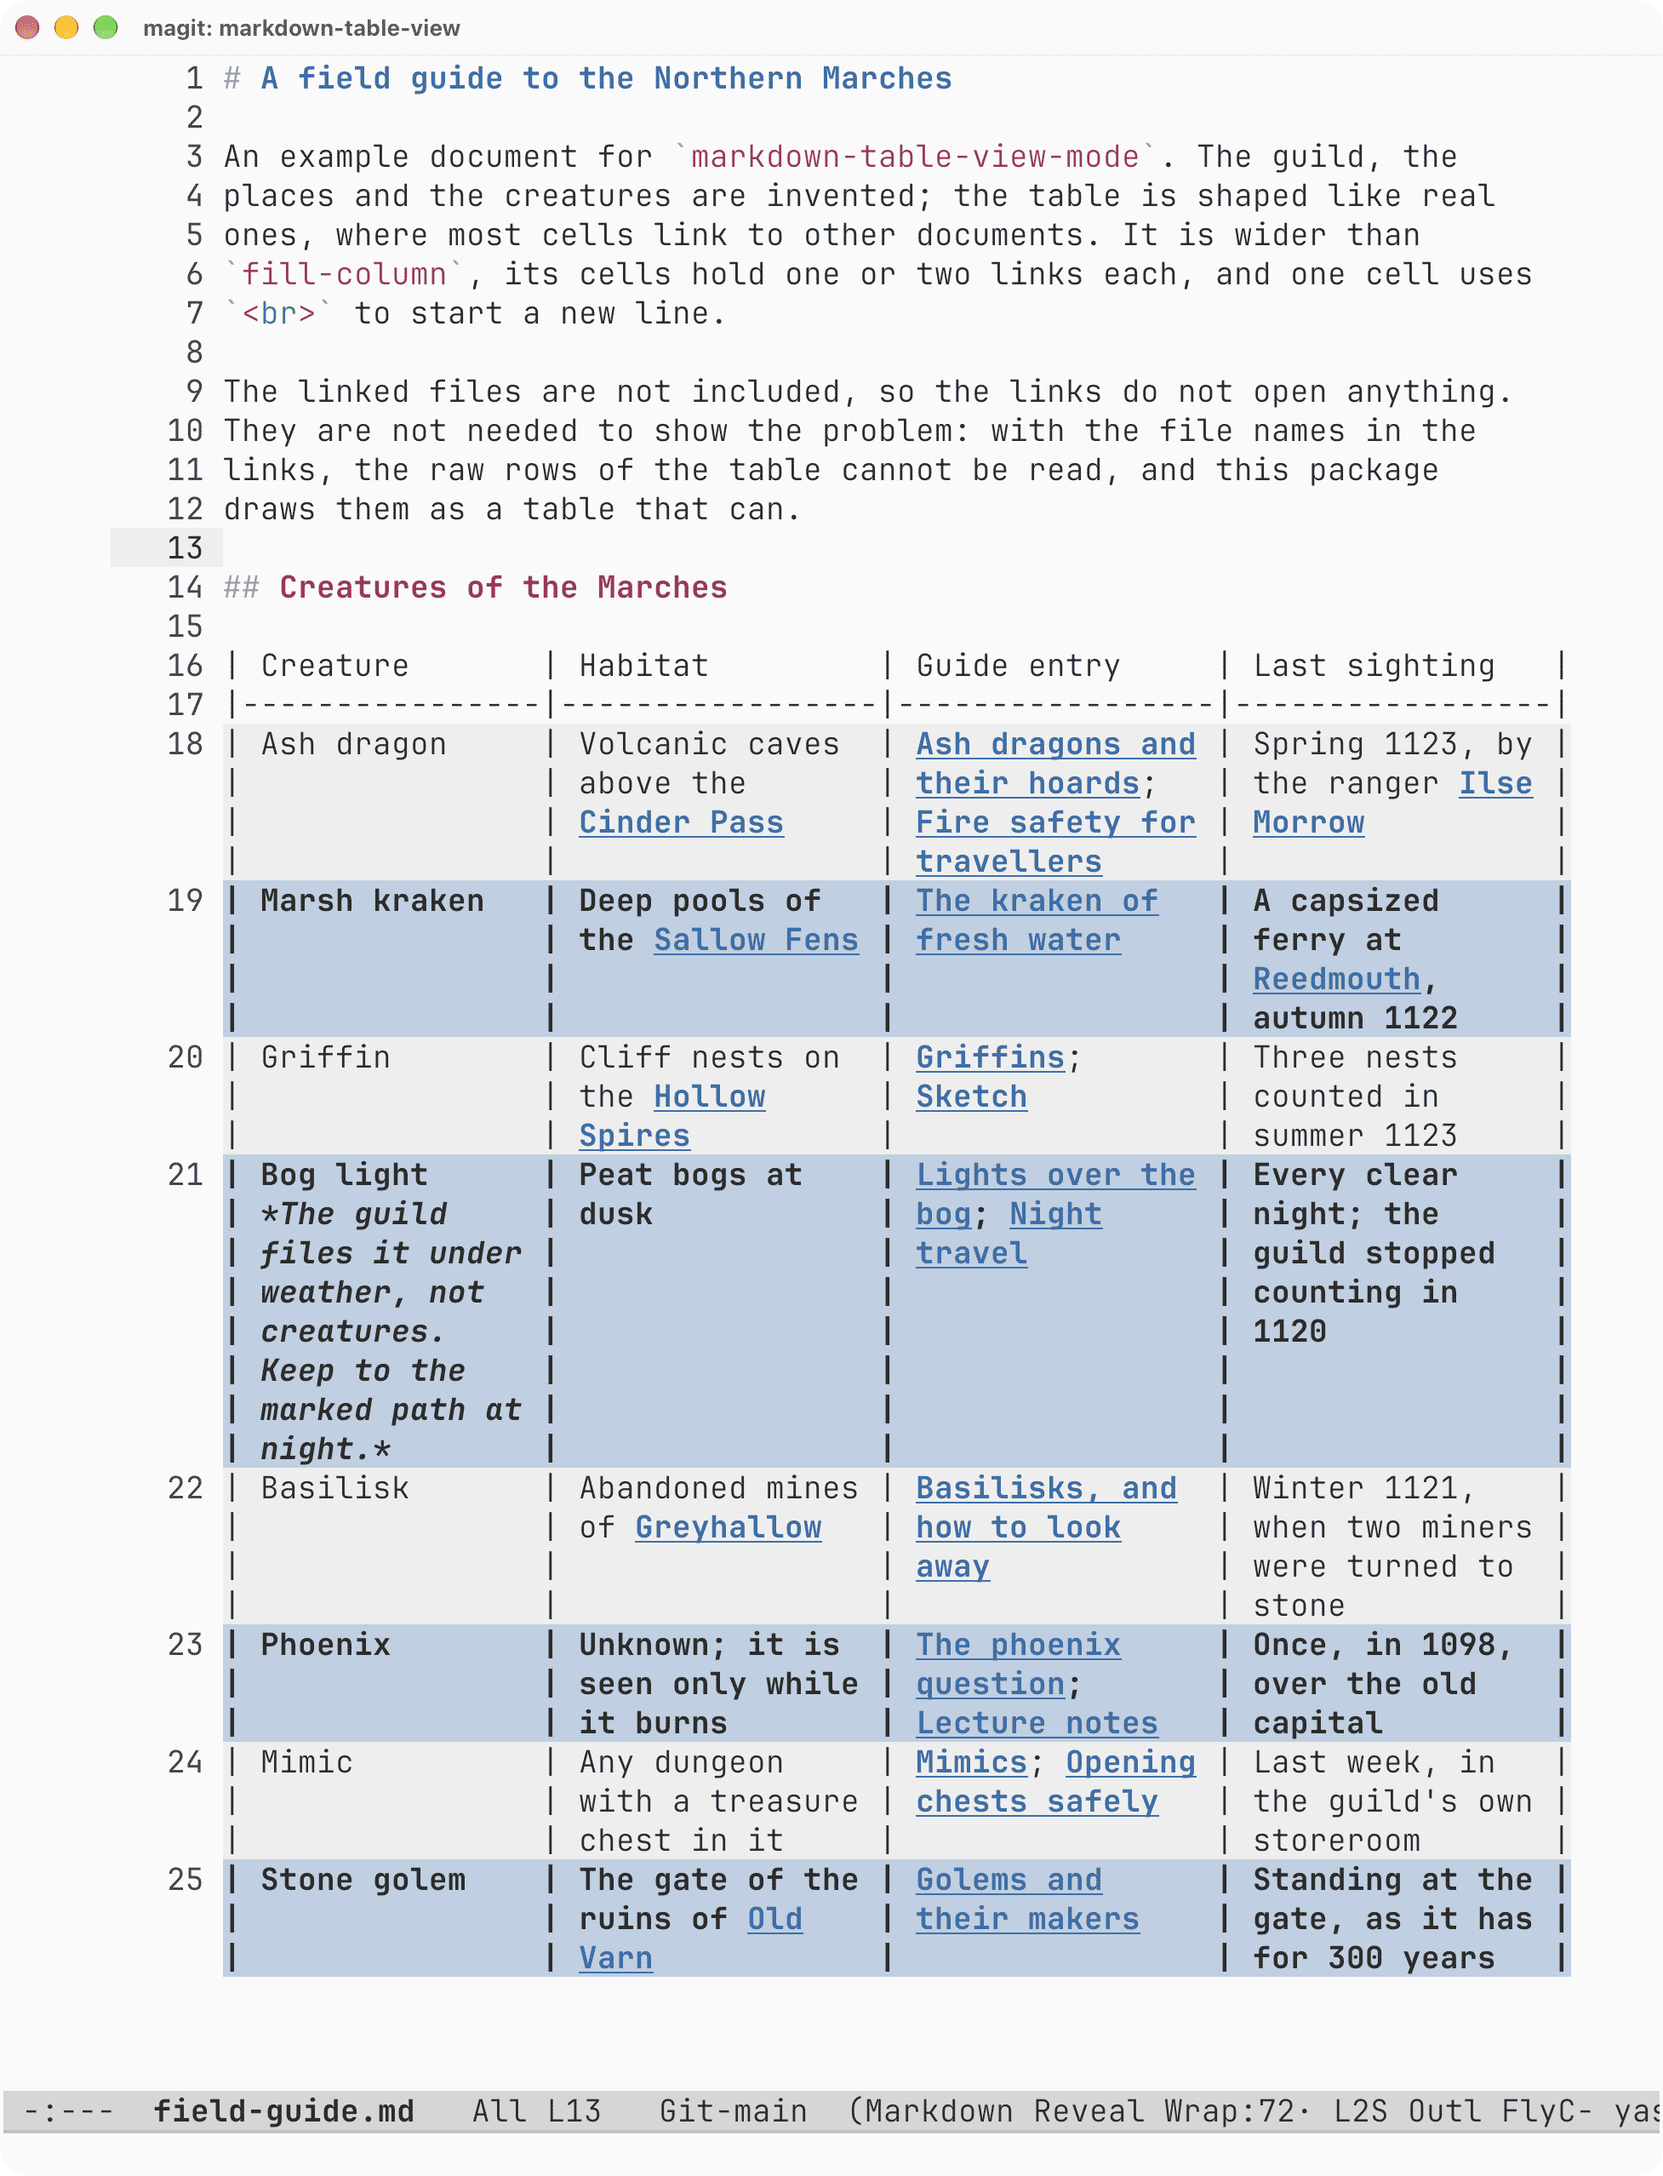
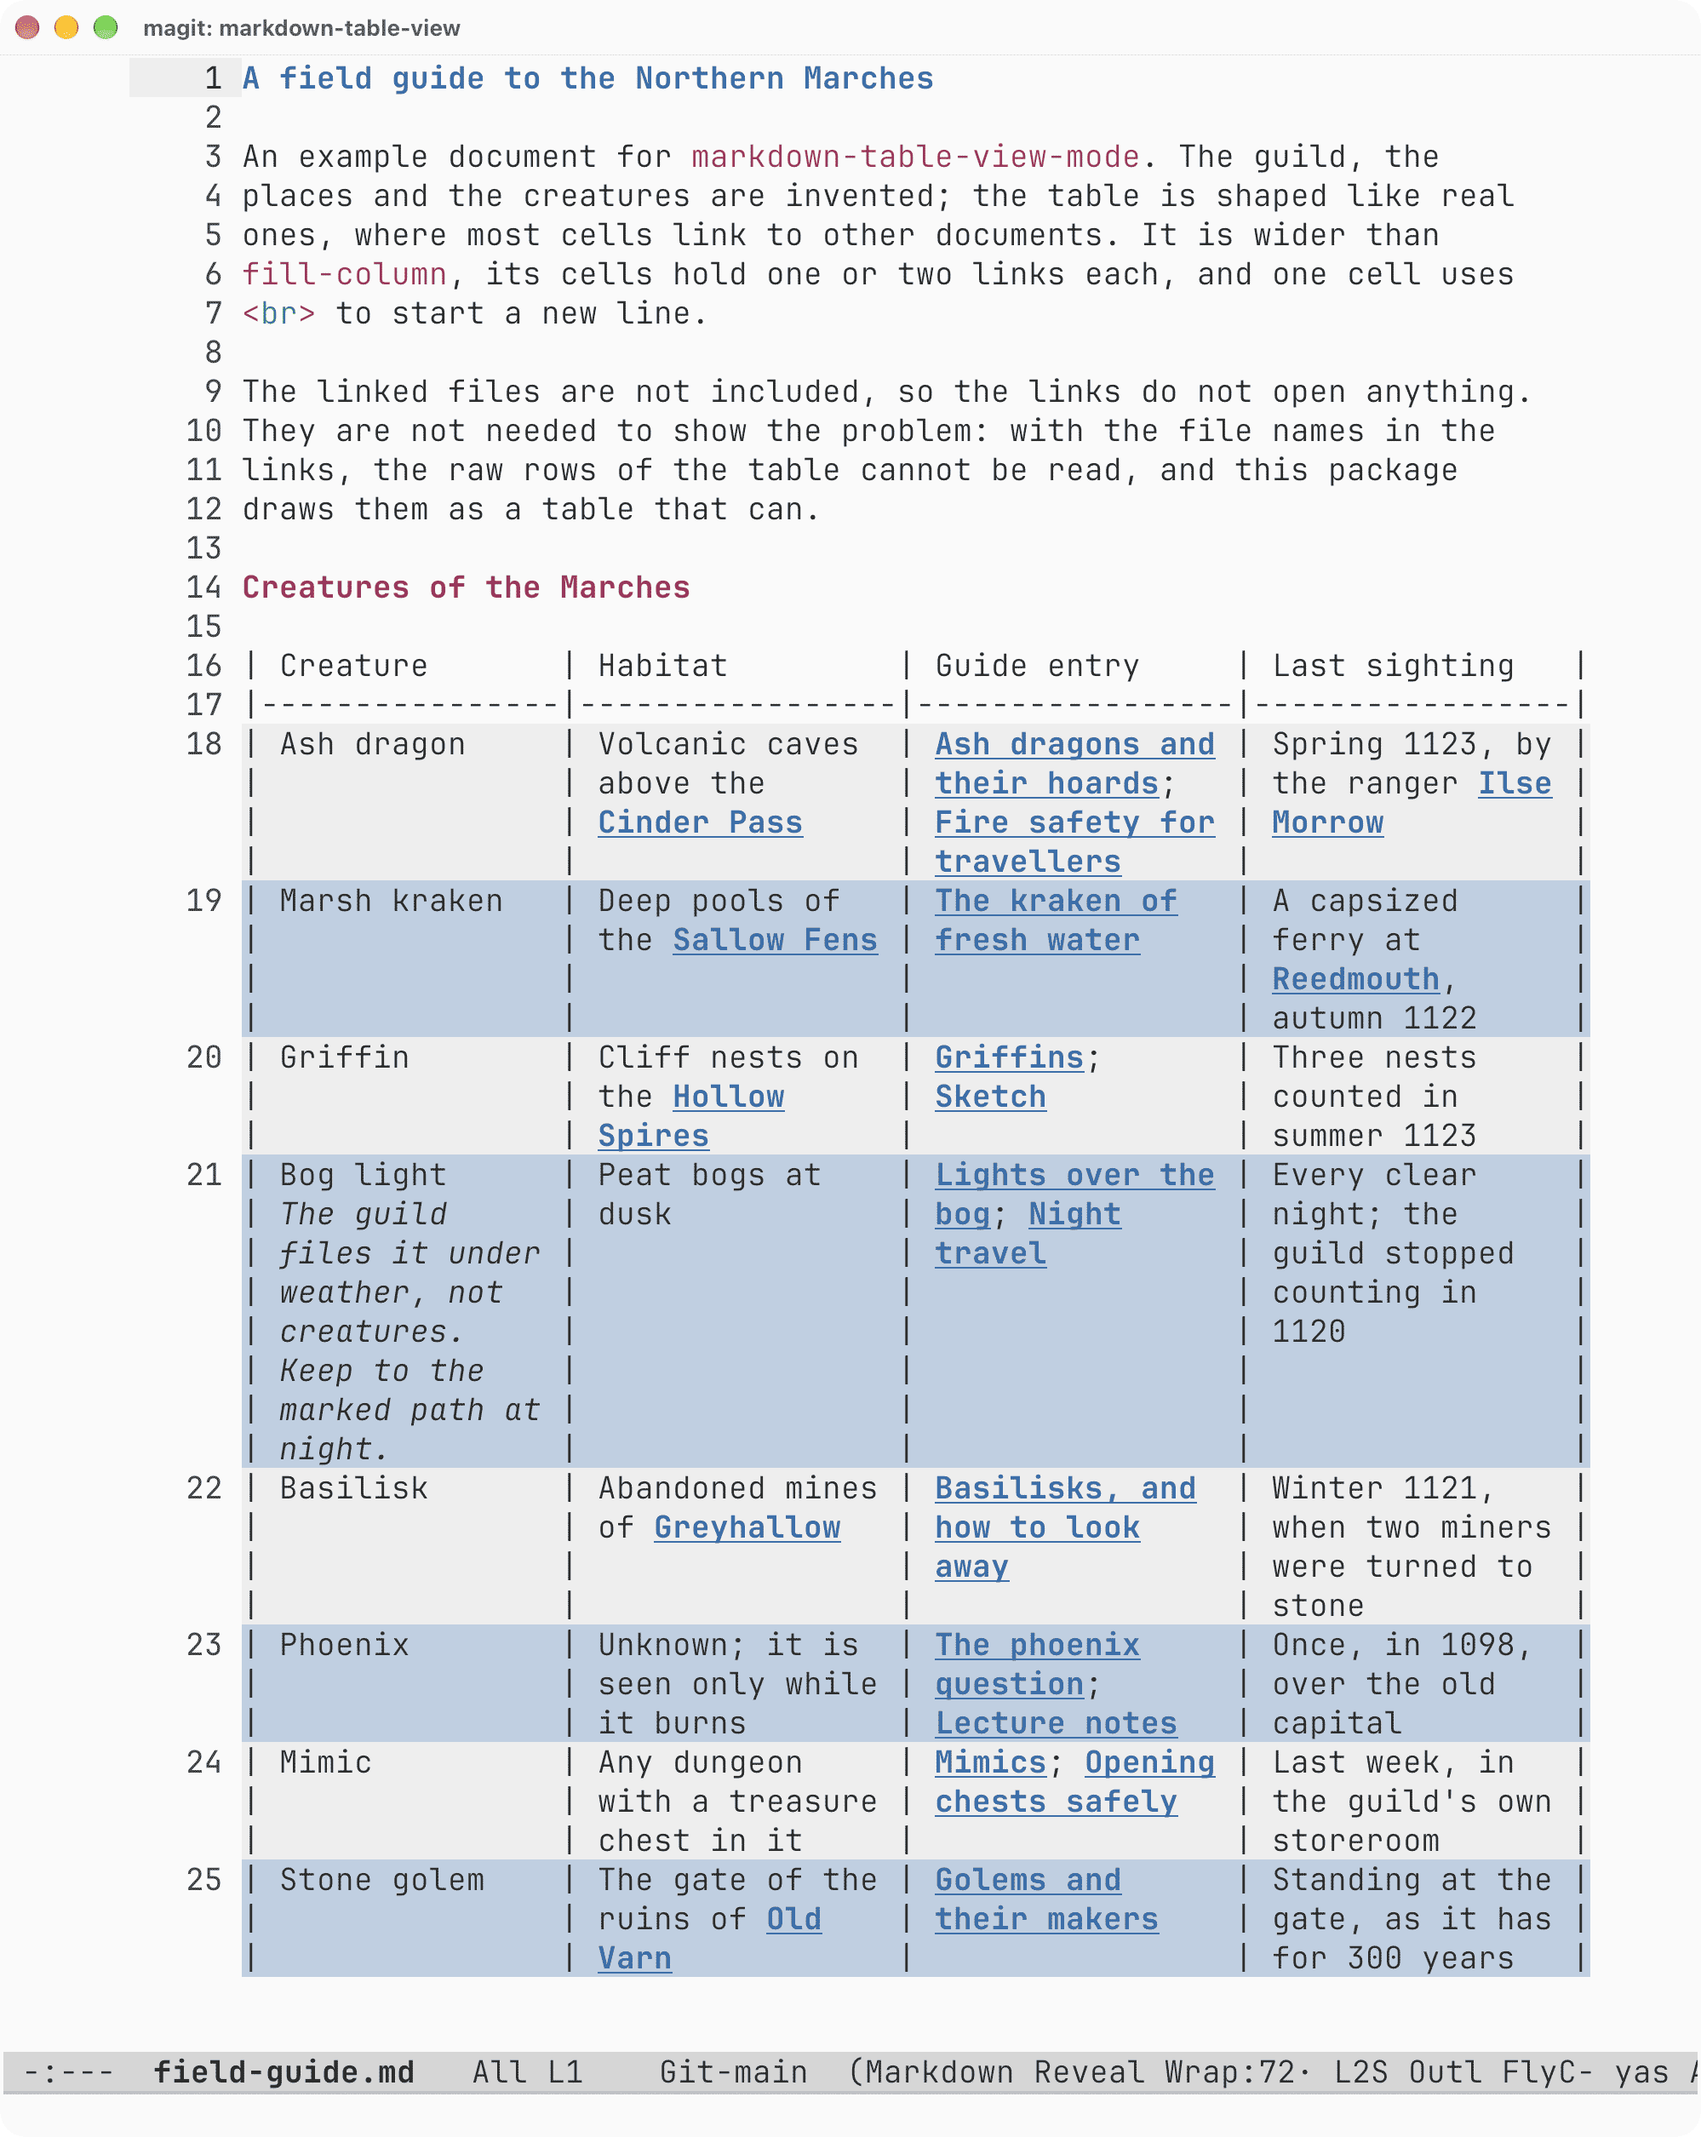
Retake the screenshot with markup hidden
The striped rows are no longer bold, and all markup is hidden with
C-c C-x C-m; the caption says so.

diff --git a/README.md b/README.md
@@ -57,7 +57,7 @@ The link labels keep the faces `markdown-ts-mode` gives them, and clicking one f
 
 ![The table of examples/field-guide.md drawn by markdown-table-view-mode](Screenshot.png)
 
-The screenshot shows `examples/field-guide.md` in a graphical frame, with the doom-opera-light theme and `fill-column` set to 72. Markup is shown, so the `#` of the headings, the backticks and the `*` around the note in the Bog light row are visible. The link destinations are hidden by a setting of the author's configuration that is not part of this package. `C-c C-x C-m` (`markdown-ts-toggle-hide-markup`) makes `markdown-ts-mode` hide all markup, the link destinations included.
+The screenshot shows `examples/field-guide.md` in a graphical frame, with the doom-opera-light theme, `fill-column` set to 72, and markup hidden with `C-c C-x C-m` (`markdown-ts-toggle-hide-markup`).
 
 ## Requirements
 
